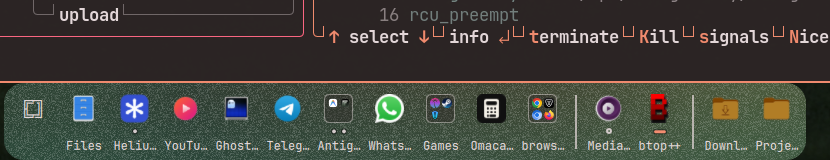
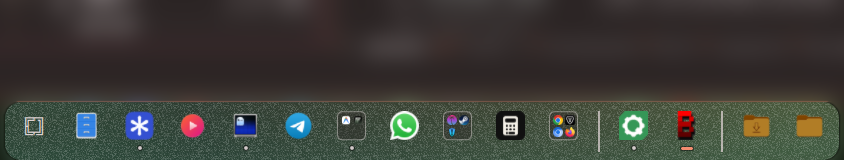
docs(readme): capture the hero and close-up from the fixed dock
The README still showed the 3883282 build: the marks sat 2 px left of their
icons and names were drawn under them, a layout v4.1.0 replaced with names
beside the icon. Recapture both images on this tree - the hero from the
desktop, and the close-up as the dock card cut out of the same capture and
composited over a blurred backdrop at 1:1, where a 2 px shift is a third of a
dot instead of sub-pixel - and correct the two alts, which described name
labels the images no longer carry.

Measured on the installed close-up: every mark 0.0 px off its icon's centre,
against -2.0 px for the pre-fix row captured the same way; the hero differs by
214 px of the 48372 in the dock card.

🤖 Generated with Codebuff

diff --git a/README.md b/README.md
@@ -14,7 +14,7 @@
 <br />
 
 <p align="center">
-  <img src="assets/preview-desktop.png" alt="omadock on an Omarchy desktop (Ristretto theme) with app, group and folder name labels below the icons" width="880" style="border-radius: 12px; box-shadow: 0 8px 24px rgba(0,0,0,0.4);" />
+  <img src="assets/preview-desktop.png" alt="omadock on an Omarchy desktop (Ristretto theme): pinned apps, app groups and folder stacks, each with the running marks under its icon" width="880" style="border-radius: 12px; box-shadow: 0 8px 24px rgba(0,0,0,0.4);" />
 </p>
 
 <p align="center">
@@ -68,7 +68,7 @@ To everyone who donates — really, truly, thank you. 🙏
 Crafted in the spirit of **Omakase (おまかせ)**: wave magnification, live window previews, app groups, multi-monitor docks. Beautiful, opinionated, and strictly **0.00% background CPU**.
 
 <p align="center">
-  <img src="assets/screenshot-transparent.png" alt="omadock close-up: name labels under the icons over the translucent gradient dock" width="700" />
+  <img src="assets/screenshot-transparent.png" alt="omadock close-up: the running marks - a dot per open window, the focused app's accent bar - dead-centre under their icons on the translucent gradient dock" width="700" />
 </p>
 
 ### ✨ Key Highlights
